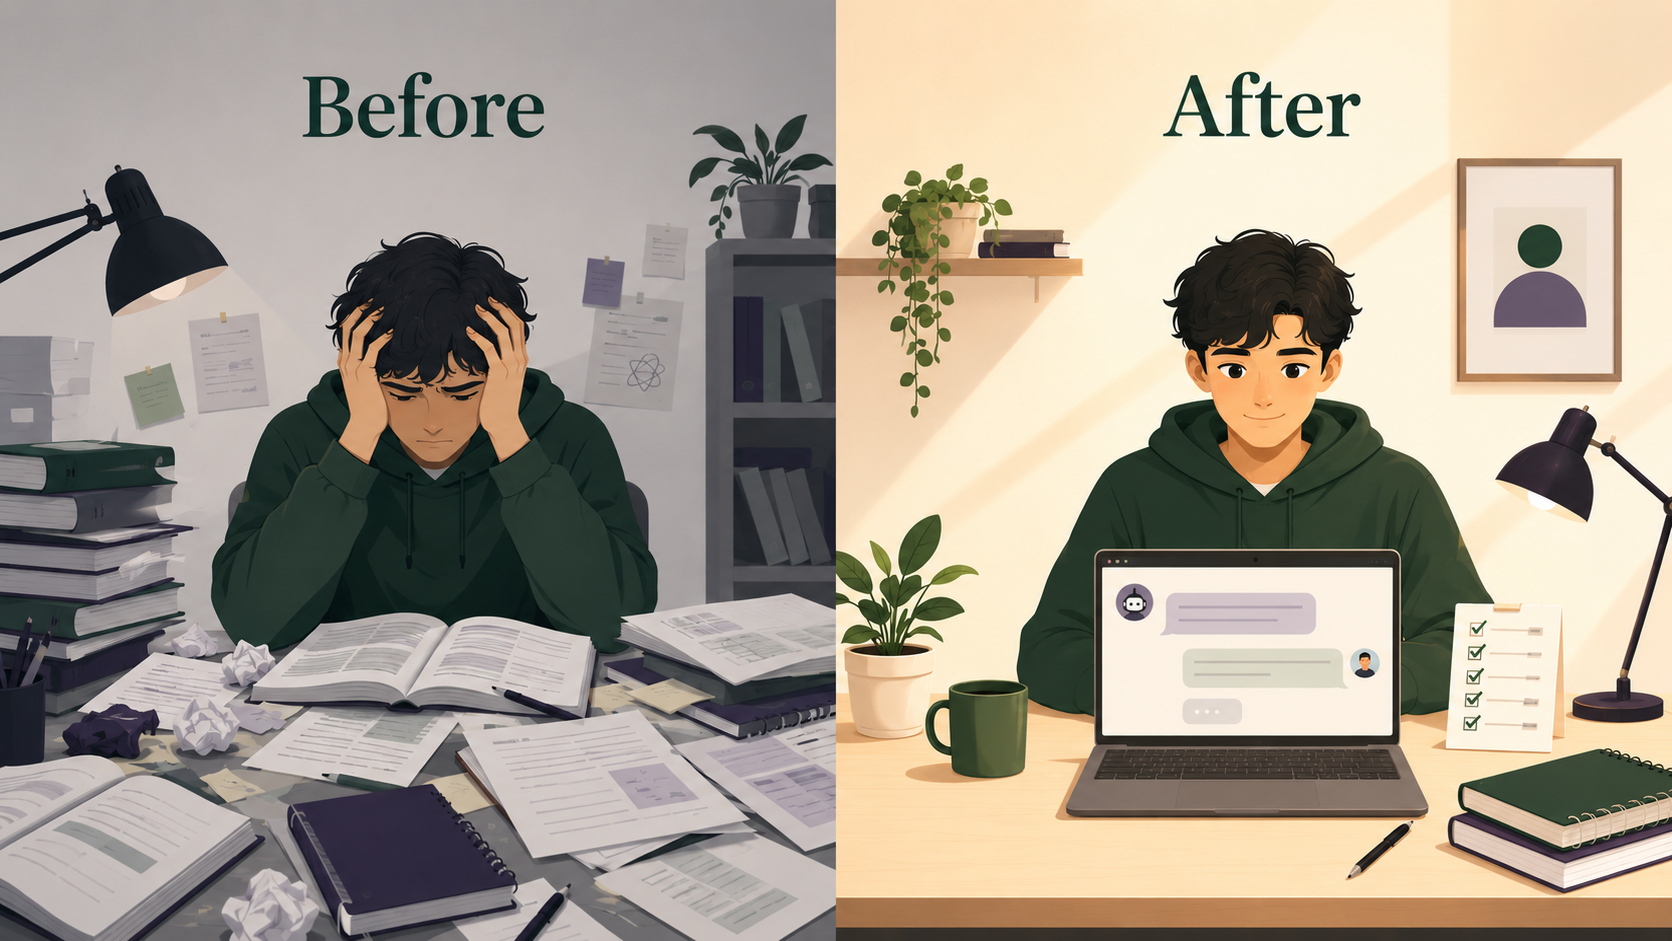
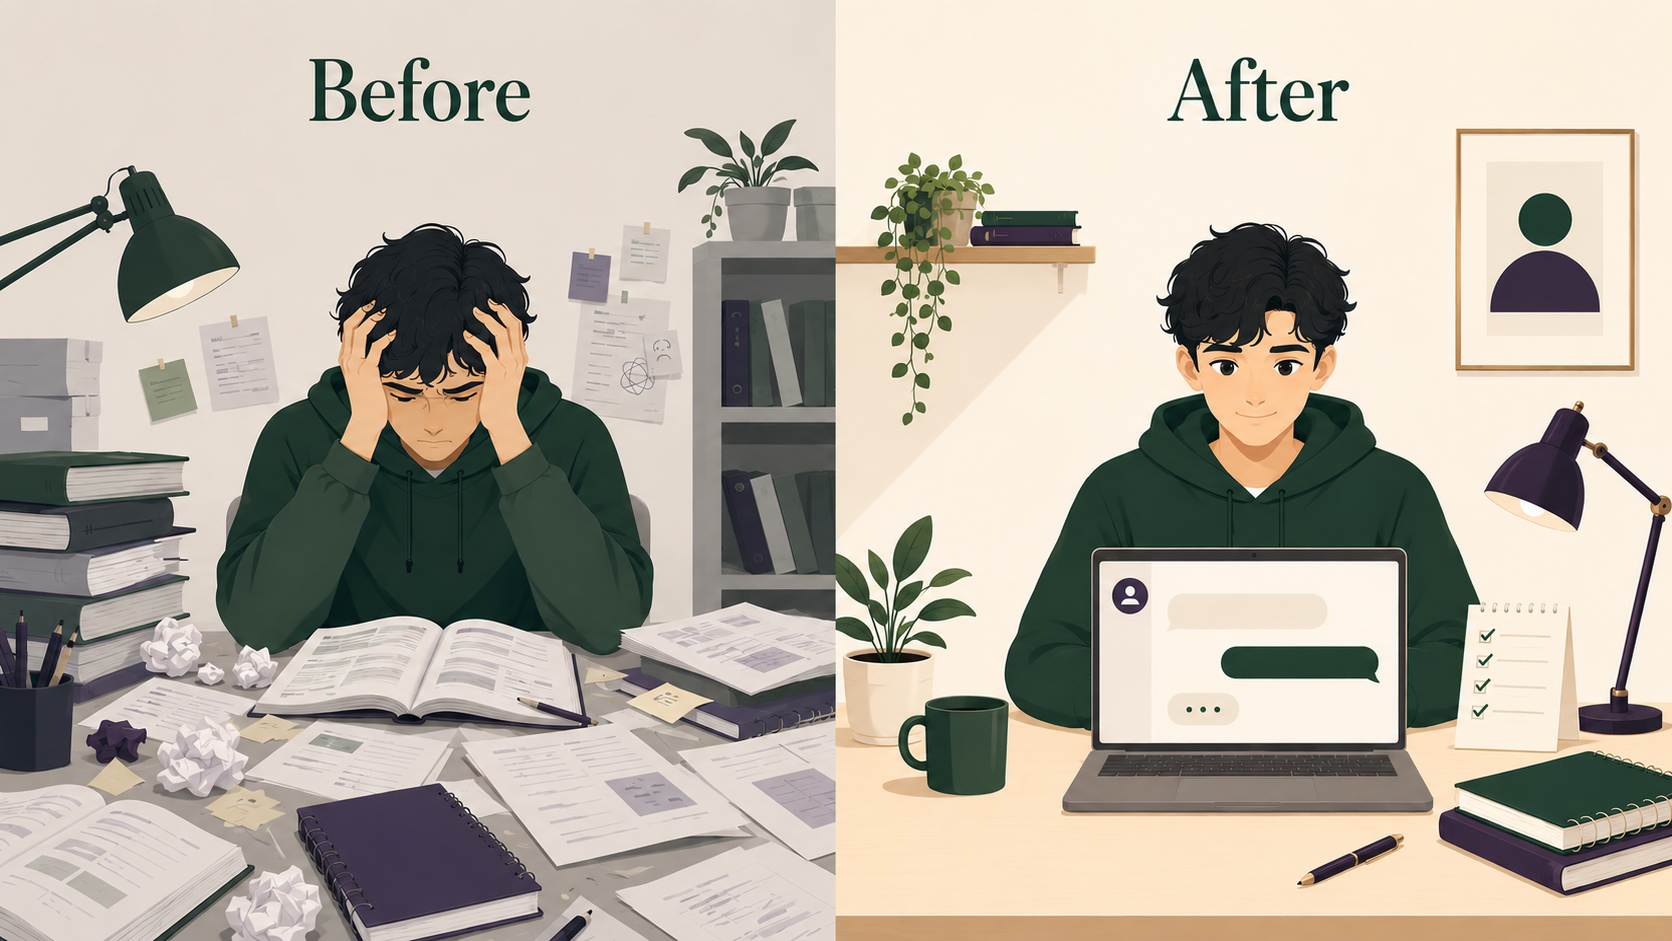
Move before/after image to Parent Reassurance section, framed to match testimonial cards

diff --git a/index.html b/index.html
@@ -128,14 +128,10 @@
  <h2 class="section-title">Six steps. One <em>system</em>. Infinite subjects.</h2>
  <p class="section-body">Grounded in schema theory, retrieval practice, Bloom's Taxonomy, and metacognitive research — the Velvet Method uses AI to make these principles accessible for every student. Tap a letter to see what it delivers.</p>
 
- <!-- BEFORE/AFTER IMAGE + CAPTIONS — wheel is now in the hero -->
- <div class="how-it-works-grid" style="display:grid;grid-template-columns:1fr 1.1fr;gap:3rem;align-items:center;margin-bottom:3rem;">
- <figure class="how-it-works-image" style="margin:0;">
- <img src="images/before-after.png" alt="Before and After — a student transformed from overwhelmed with stacks of paper to calm and organised with the Velvet Method on their laptop" style="display:block;width:100%;height:auto;border-radius:var(--radius-lg);border:1px solid var(--border);background:var(--bg-card);" loading="lazy" decoding="async">
- <figcaption style="font-family:'DM Mono',monospace;font-size:10px;color:var(--text-muted);text-align:center;margin-top:10px;letter-spacing:1px;text-transform:uppercase;">Before&nbsp;&nbsp;→&nbsp;&nbsp;After the Velvet Method</figcaption>
- </figure>
+ <!-- 6 CAPTIONS — wheel is now in the hero, image now lives in Parent Reassurance below -->
+ <div class="how-it-works-grid" style="display:grid;grid-template-columns:1fr;gap:2rem;align-items:start;margin-bottom:3rem;">
 
- <div class="velvet-caption-stack" style="display:flex;flex-direction:column;gap:14px;">
+ <div class="velvet-caption-stack" style="display:grid;grid-template-columns:repeat(2, 1fr);gap:14px;">
  <div class="velvet-caption" data-for="V1" style="background:var(--bg-card);border:1px solid var(--border-accent);border-left:4px solid var(--accent);border-radius:var(--radius);padding:18px 22px;cursor:pointer;transition:all 0.25s ease;"><div style="display:flex;align-items:center;gap:12px;margin-bottom:6px;"><span style="font-family:'Playfair Display',serif;font-size:20px;font-weight:900;background:var(--velvet-gradient);-webkit-background-clip:text;-webkit-text-fill-color:transparent;background-clip:text;">V</span><span style="font-family:'DM Mono',monospace;font-size:11px;color:var(--text-muted);letter-spacing:1.5px;text-transform:uppercase;">Step 1 · View</span></div><div style="font-size:14.5px;color:var(--text-secondary);line-height:1.6;">Map your whole syllabus before you study a thing, so nothing catches you out.</div></div>
  <div class="velvet-caption" data-for="E1" style="background:var(--bg-card);border:1px solid var(--border);border-left:4px solid var(--accent);border-radius:var(--radius);padding:18px 22px;cursor:pointer;transition:all 0.25s ease;"><div style="display:flex;align-items:center;gap:12px;margin-bottom:6px;"><span style="font-family:'Playfair Display',serif;font-size:20px;font-weight:900;background:var(--velvet-gradient);-webkit-background-clip:text;-webkit-text-fill-color:transparent;background-clip:text;">E</span><span style="font-family:'DM Mono',monospace;font-size:11px;color:var(--text-muted);letter-spacing:1.5px;text-transform:uppercase;">Step 2 · Evaluate</span></div><div style="font-size:14.5px;color:var(--text-secondary);line-height:1.6;">Run an AI diagnostic to find exactly where your gaps are.</div></div>
  <div class="velvet-caption" data-for="L" style="background:var(--bg-card);border:1px solid var(--border);border-left:4px solid var(--accent);border-radius:var(--radius);padding:18px 22px;cursor:pointer;transition:all 0.25s ease;"><div style="display:flex;align-items:center;gap:12px;margin-bottom:6px;"><span style="font-family:'Playfair Display',serif;font-size:20px;font-weight:900;background:var(--velvet-gradient);-webkit-background-clip:text;-webkit-text-fill-color:transparent;background-clip:text;">L</span><span style="font-family:'DM Mono',monospace;font-size:11px;color:var(--text-muted);letter-spacing:1.5px;text-transform:uppercase;">Step 3 · Learn</span></div><div style="font-size:14.5px;color:var(--text-secondary);line-height:1.6;">Fill those gaps in the format that sticks — games, roleplay, the Feynman technique.</div></div>
@@ -226,6 +222,15 @@
  <div style="font-size:12px;color:var(--text-muted);font-family:'DM Mono',monospace;letter-spacing:0.5px;">What it is, why it works, what to look for</div>
  </div>
  </div>
+
+ <!-- BEFORE / AFTER — the shift parents notice. Framed to match the testimonial cards. -->
+ <figure class="parent-before-after" style="background:var(--bg-card);border:1px solid var(--border-accent);border-radius:var(--radius-lg);padding:24px;margin:24px auto 0;max-width:620px;box-shadow:0 0 32px var(--accent-glow);">
+ <picture>
+ <source srcset="images/before-after.webp" type="image/webp">
+ <img src="images/before-after.png" alt="Before and After — a student transformed from overwhelmed with stacks of paper to calm and organised with the Velvet Method on their laptop" style="display:block;width:100%;height:auto;border-radius:var(--radius);" loading="lazy" decoding="async">
+ </picture>
+ <figcaption style="font-family:'DM Mono',monospace;font-size:11px;color:var(--text-muted);text-align:center;margin-top:14px;letter-spacing:1px;text-transform:uppercase;">Before&nbsp;&nbsp;→&nbsp;&nbsp;After the Velvet Method · the shift parents notice</figcaption>
+ </figure>
  </div>
 </section>
 
@@ -397,6 +402,9 @@
  .hero .hero-inner { grid-template-columns: 1fr !important; }
  .hero .hero-image { order: -1; max-width: 480px; margin: 0 auto 1.5rem; }
  .how-it-works-grid { grid-template-columns: 1fr !important; gap: 1.5rem !important; }
+ .velvet-caption-stack { grid-template-columns: 1fr !important; }
+ .parent-before-after { padding: 18px !important; max-width: 100% !important; box-shadow: 0 0 18px var(--accent-glow) !important; }
+ .parent-before-after figcaption { font-size: 10px !important; letter-spacing: 0.8px !important; }
  .velvet-wheel-wrap { max-width: 380px; margin: 0 auto; }
 }
 @media (max-width: 820px) {
